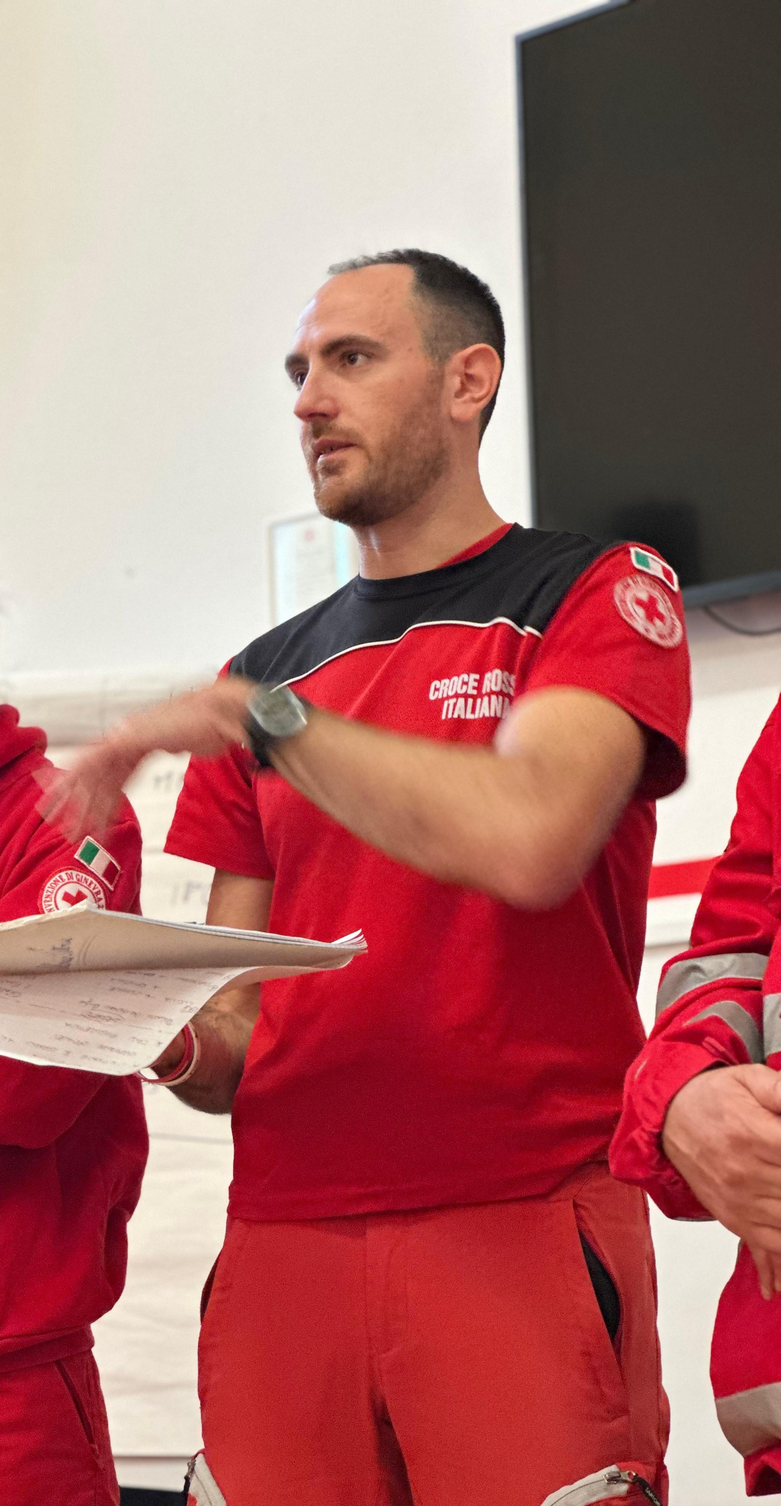
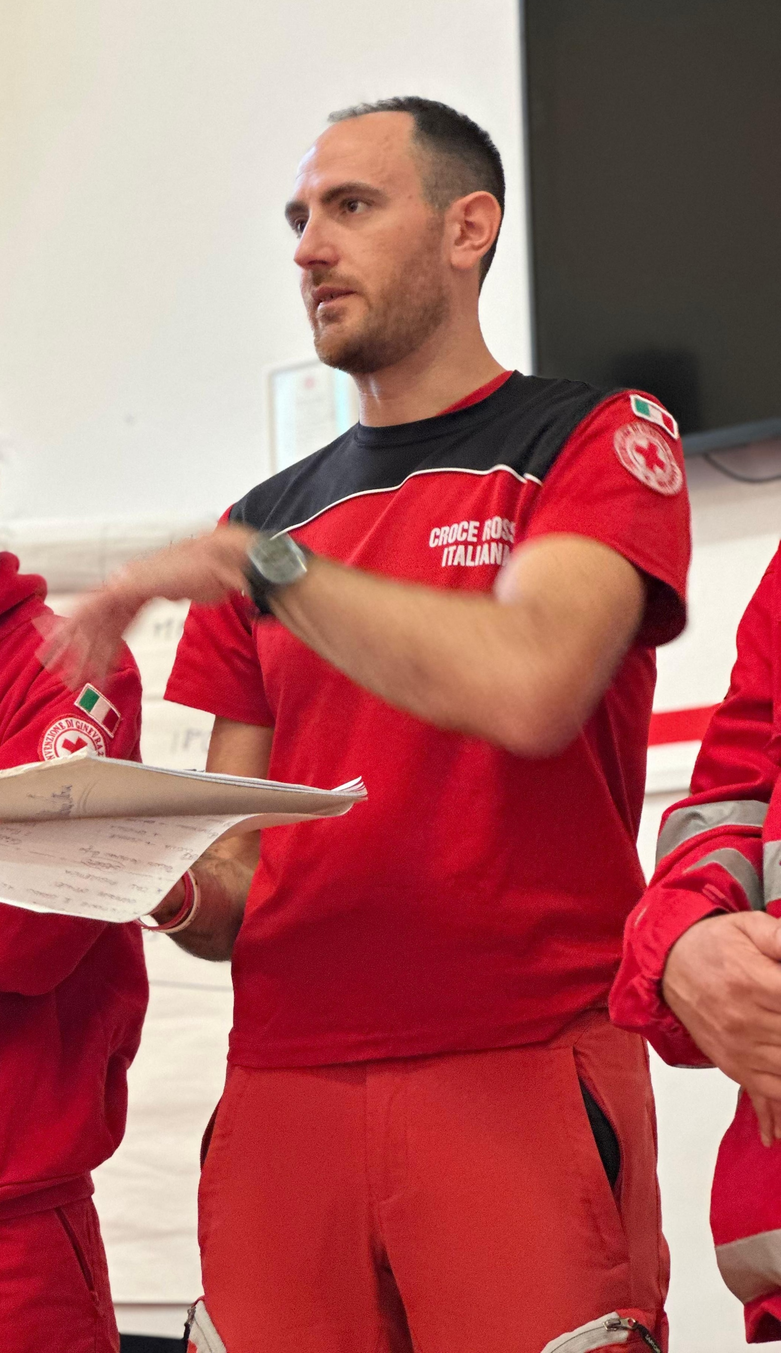
updt

diff --git a/_pages/life.md b/_pages/life.md
@@ -28,7 +28,7 @@ Besides statistical life, I am an active volunteer for the following association
 
 I volunteer as a Rescuer and Ambulance driver at the Italian Red Cross.
 
-<p><img src="../images/ttssa.jpg" style="float:right;width:100px;height:200px;">
+<p><img src="../images/ttssa.jpg" style="float:right;width:100px;height:170px;">
 The Italian Red Cross (<a href="https://cri.it">CRI</a> - Croce Rossa Italiana) is a humanitarian organisation that provides assistance and protection in times of war, natural disasters, and other emergencies. It operates under the principles of the International Red Cross and Red Crescent Movement (<a href="https://www.ifrc.org">IFRC</a>), the world's largest humanitarian network.
 Its main activities include health and social care, emergency response, disaster relief, first aid training, and support for vulnerable populations, both in Italy and abroad.</p>
 
